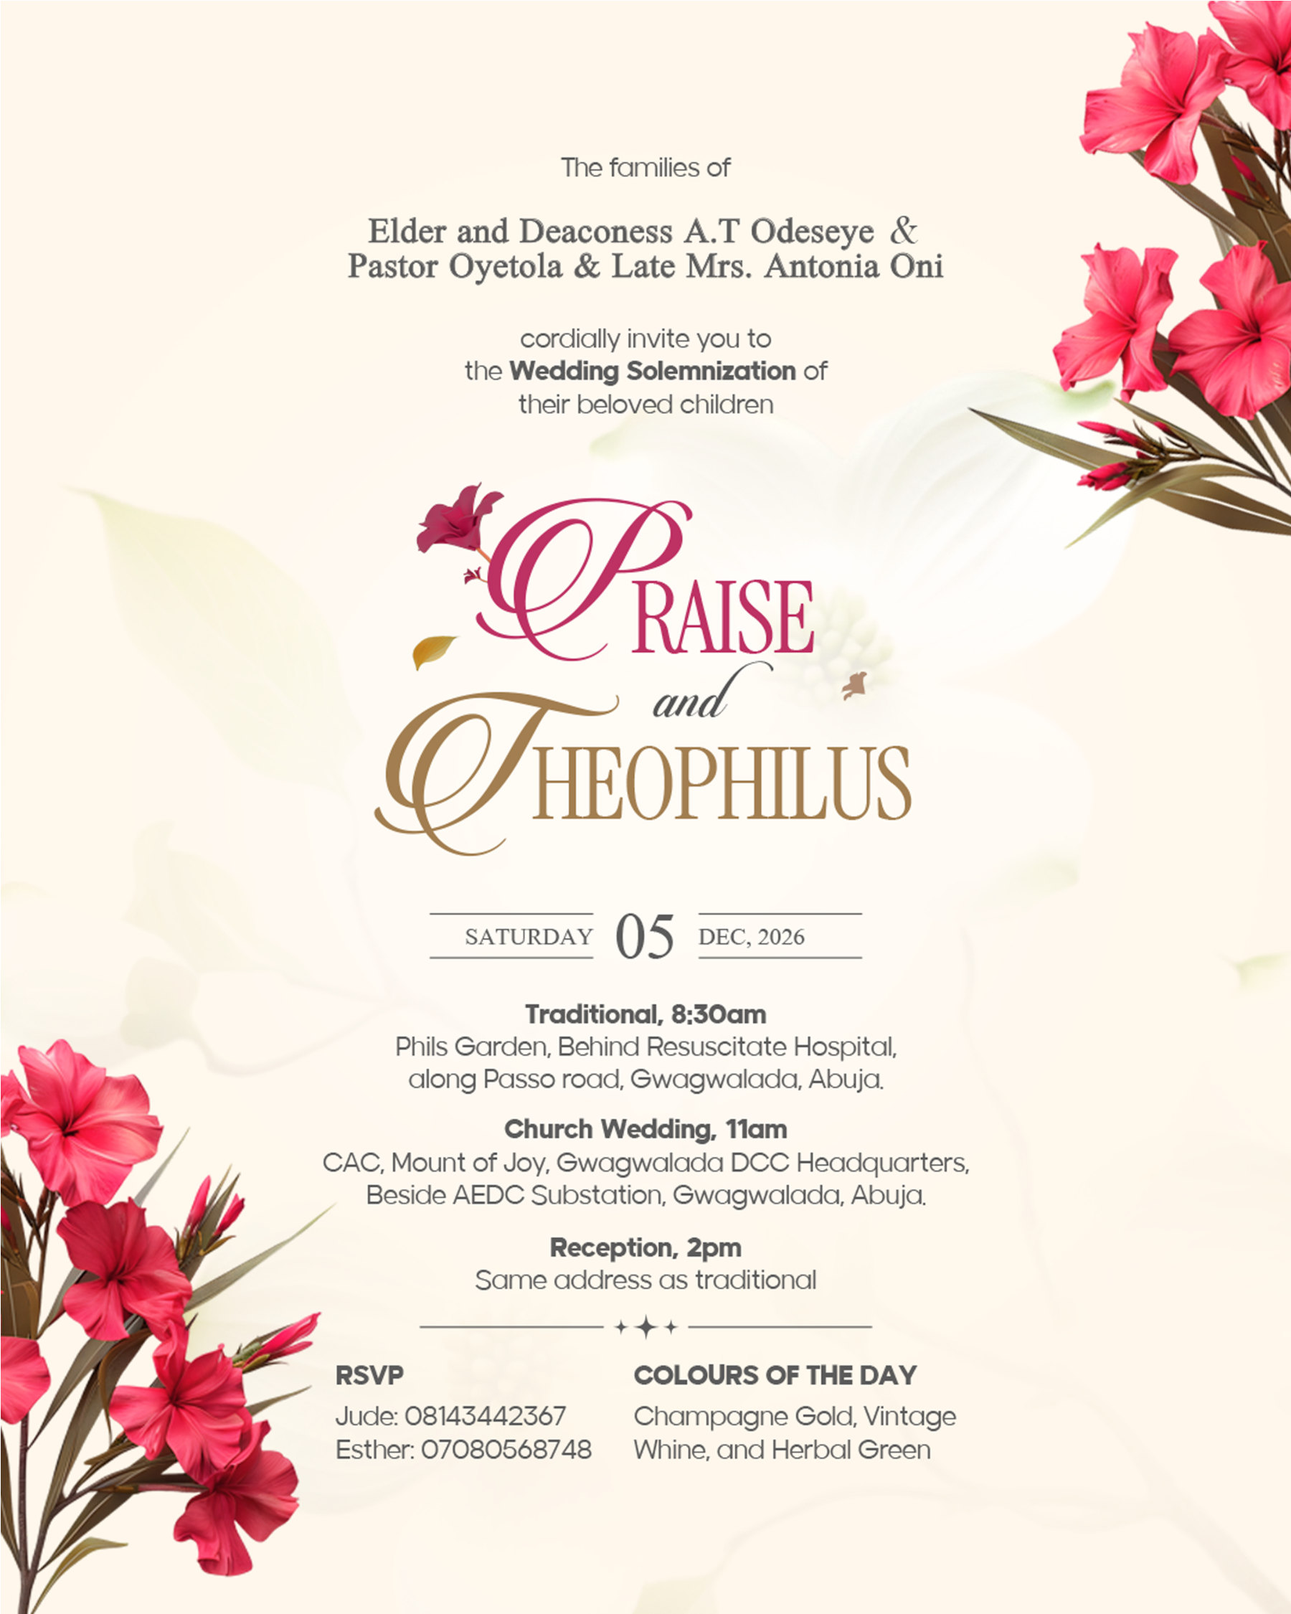
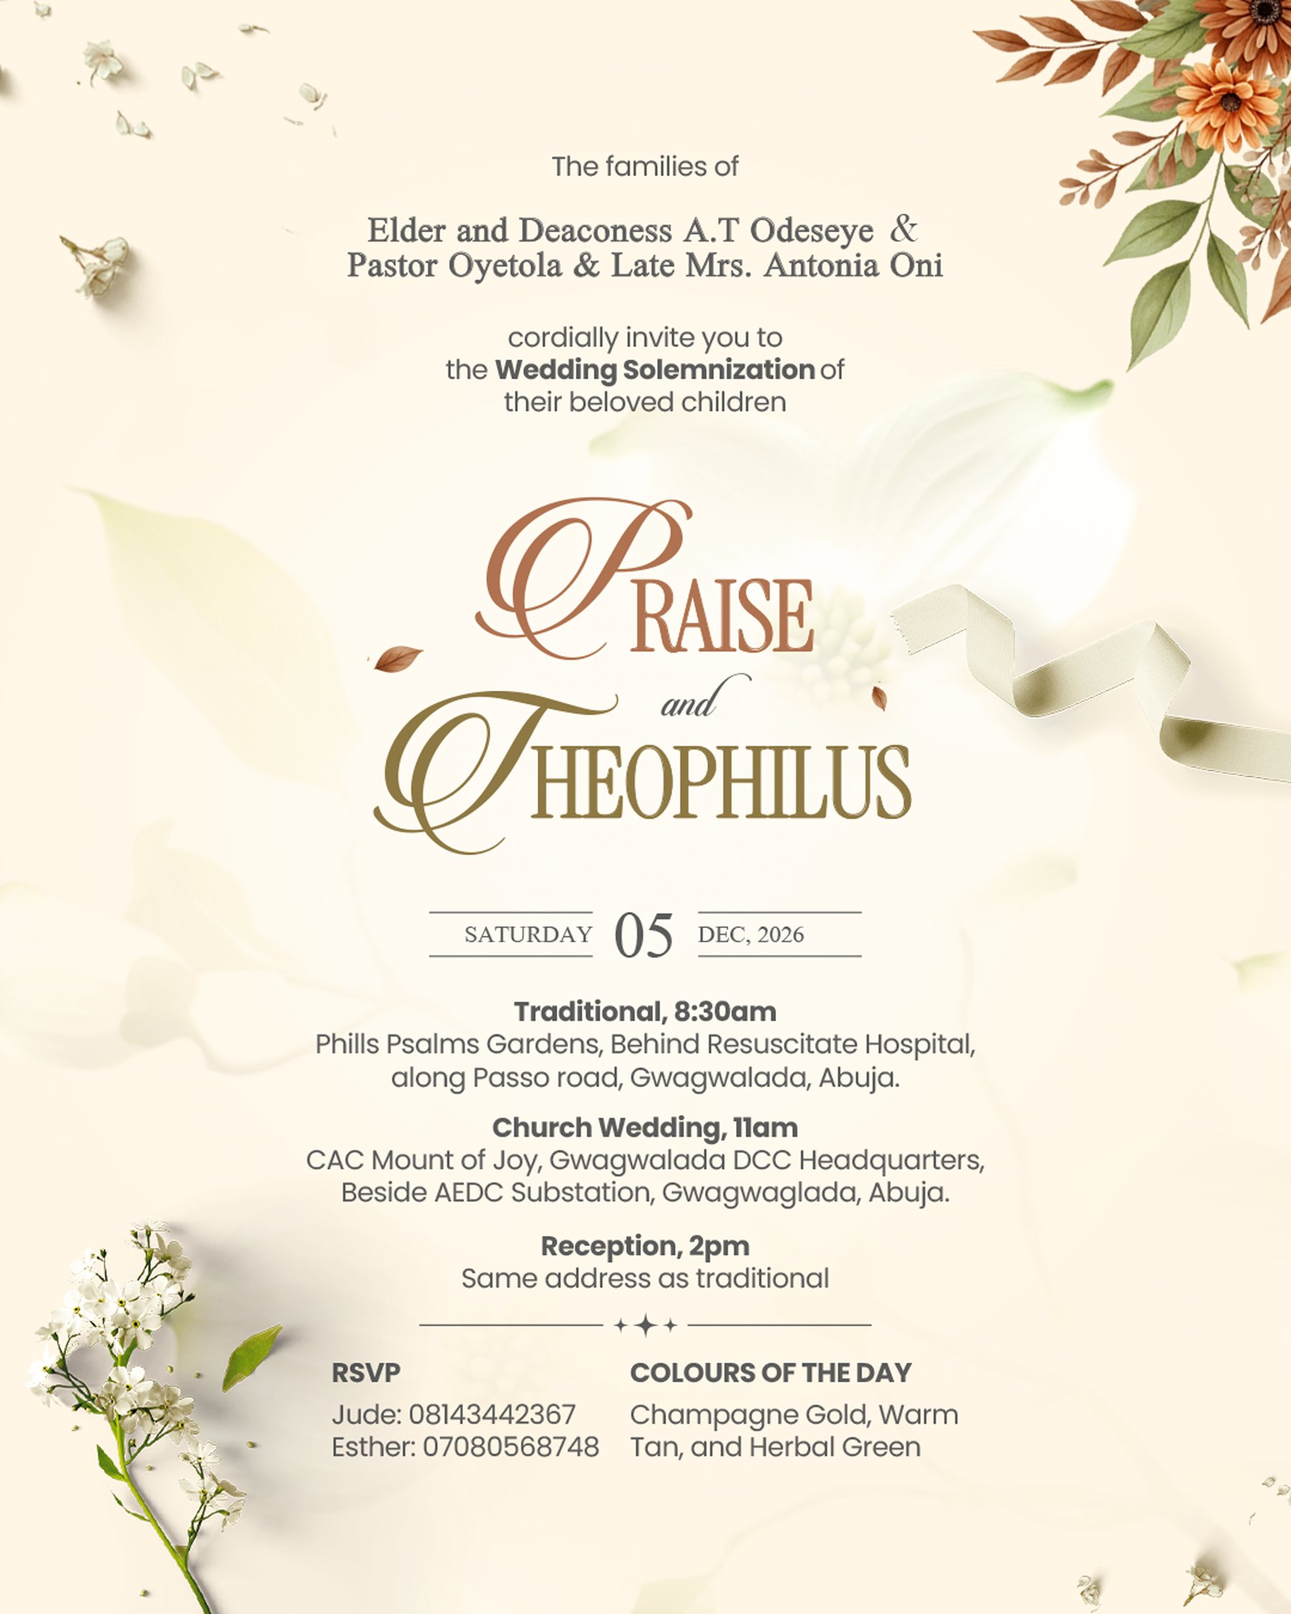
Restyle the site after the updated invitation
Colours, the attire photo and the card image now follow You Are Invited2.pdf:
warm tan, herbal green and champagne gold on the card's cream, with chocolate
brown kept as the dark ground. The card's autumn florals and a rust daisy,
cut out of it, replace the peony and two of the ivory florals. Both names in
the hero share the champagne colour.

diff --git a/src/components/Ornaments.tsx b/src/components/Ornaments.tsx
@@ -42,20 +42,31 @@ export function Divider({ className = "" }: { className?: string }) {
 /*
   The ivory florals from t-wedding, as drawn:
     corner-a     big bloom at the lower right, sprays rising left and up
-    corner-b     bloom at the lower middle, stems rising to the right
     corner-tall  bloom at the lower left, stems rising up and running right
     bouquet      a standing cluster of three blooms
-    spray-wide   a horizontal spray, bloom at the right
-*/
-const FLORALS = {
-  "corner-a": { w: 700, h: 766 },
-  "corner-b": { w: 600, h: 758 },
-  "corner-tall": { w: 600, h: 758 },
-  bouquet: { w: 480, h: 635 },
-  "spray-wide": { w: 458, h: 300 },
-} as const;
 
-export type FloralName = keyof typeof FLORALS;
+  The watercolour autumn florals from the updated card. Each was cut by the
+  card's edges, so it names the corner it must sit flush in (`cut`, before
+  any flip), and blooms and sways from that corner so the cut never shows:
+    autumn-corner  rust daisies, copper and sage leaves falling from the top right
+    autumn-spray   copper and sage leaves rising from the bottom right
+*/
+const FLORALS: Record<string, { file: string; w: number; h: number; cut?: [x: 0 | 1, y: 0 | 1] }> = {
+  "corner-a": { file: "floral-corner-a", w: 700, h: 766 },
+  "corner-tall": { file: "floral-corner-tall", w: 600, h: 758 },
+  bouquet: { file: "floral-bouquet", w: 480, h: 635 },
+  "autumn-corner": { file: "autumn-corner", w: 720, h: 838, cut: [1, 0] },
+  "autumn-spray": { file: "autumn-spray", w: 600, h: 750, cut: [1, 1] },
+};
+
+export type FloralName =
+  | "corner-a"
+  | "corner-tall"
+  | "bouquet"
+  | "autumn-corner"
+  | "autumn-spray";
+
+const pct = (v: number) => `${v * 100}%`;
 
 /**
  * One of the florals, placed by `className` (position and width). It blooms
@@ -64,7 +75,7 @@ export type FloralName = keyof typeof FLORALS;
  * image the sway.
  *
  * On the light paper the ivory needs a soft shadow to hold its edge; `onPaper`
- * adds it.
+ * adds it. The autumn florals carry their own colour and need none.
  */
 export function Floral({
   name,
@@ -79,34 +90,43 @@ export function Floral({
   flipY?: boolean;
   onPaper?: boolean;
 }) {
-  const { w, h } = FLORALS[name];
+  const { file, w, h, cut } = FLORALS[name];
   const mirror = `${flipX ? "scaleX(-1)" : ""} ${flipY ? "scaleY(-1)" : ""}`.trim();
+  // The image sways about its cut corner as drawn; the outer layer blooms about where that corner lands after the flip.
+  const swayOrigin = cut ? `${pct(cut[0])} ${pct(cut[1])}` : undefined;
+  const bloomOrigin = cut ? `${pct(flipX ? 1 - cut[0] : cut[0])} ${pct(flipY ? 1 - cut[1] : cut[1])}` : undefined;
   return (
-    <span data-inview aria-hidden className={`bloom pointer-events-none -z-10 block select-none ${className}`}>
+    <span
+      data-inview
+      aria-hidden
+      className={`bloom pointer-events-none -z-10 block select-none ${className}`}
+      style={bloomOrigin ? { transformOrigin: bloomOrigin } : undefined}
+    >
       <span className="block" style={mirror ? { transform: mirror } : undefined}>
         <Image
-          src={`/invitation/ornaments/floral-${name}.webp`}
+          src={`/invitation/ornaments/${file}.webp`}
           alt=""
           width={w}
           height={h}
           draggable={false}
           sizes="320px"
-          className={`sway block h-auto w-full ${onPaper ? "drop-shadow-[0_2px_5px_rgb(138_106_63/0.35)]" : ""}`}
+          style={swayOrigin ? { transformOrigin: swayOrigin } : undefined}
+          className={`sway block h-auto w-full ${onPaper && !cut ? "drop-shadow-[0_2px_5px_rgb(138_106_63/0.35)]" : ""}`}
         />
       </span>
     </span>
   );
 }
 
-/** The peony on its own, for small accents and the timeline's rider. */
-export function Peony({ className = "" }: { className?: string }) {
+/** A single rust daisy from the updated card, for small accents. */
+export function Daisy({ className = "" }: { className?: string }) {
   return (
     <Image
-      src="/invitation/ornaments/peony.webp"
+      src="/invitation/ornaments/daisy.webp"
       alt=""
       aria-hidden
-      width={200}
-      height={200}
+      width={185}
+      height={169}
       draggable={false}
       className={`pointer-events-none block h-auto select-none ${className}`}
     />

diff --git a/src/app/globals.css b/src/app/globals.css
@@ -1,37 +1,34 @@
 @import "tailwindcss";
 
 /*
-  The palette: chocolate brown as the dark ground, champagne gold as the
-  metal, herbal green as a quiet accent.
-  Paper is the warm cream the reference sets its light sections on.
-
-  The earthy set from the colour library plays support only: chocolate brown
-  for text, olive for small green accents, warm tan for fine borders and
-  beige for an alternate light section. None of them is a section ground.
+  The palette, after the updated card (You Are Invited2.pdf): its cream
+  paper, the olive gold of the couple's names, and the three
+  colours of the day, warm tan, herbal green and champagne gold.
+  Chocolate brown stays as the dark ground.
 */
 @theme {
-  --color-paper: #f7f1ea;
-  --color-cream: #efe5d8;
+  /* The card's paper. */
+  --color-paper: #fff6e6;
+  --color-cream: #fbead3;
   /*
-    The dark ground is now the library's chocolate brown. The names stay
-    "wine" so the classes across the components need no change; the guests'
-    Vintage Wine swatch in the dress code keeps its own hex.
+    The dark ground is chocolate brown. The names stay "wine" so the classes
+    across the components need no change.
   */
   --color-wine: #3e2318;
   --color-wine-deep: #2e1810;
   --color-wine-soft: #5e3a2a;
-  --color-rose: #e7b7bf;
-  --color-gold: #b38b59;
-  --color-gold-deep: #8a6a3f;
-  --color-gold-light: #d9bf94;
-  --color-herbal: #6e6e3a;
-  /* Olive from the colour library, for small green text on paper (about 7:1). */
-  --color-herbal-deep: #4d5309;
-  /* Herbal green lifted to read on the wine ground. */
-  --color-sage: #a9a873;
-  --color-champagne: #e2d2b6;
-  --color-tan: #b0866e;
-  --color-beige: #cebdb2;
+  /* The olive gold of the groom's name; deep for text on paper (about 5:1). */
+  --color-gold: #ad8b58;
+  --color-gold-deep: #7f6a3a;
+  --color-gold-light: #f0dcbc;
+  --color-herbal: #7d6e40;
+  /* Herbal green darkened for small green text on paper (about 7:1). */
+  --color-herbal-deep: #5a5028;
+  /* Herbal green lifted to read on the chocolate ground. */
+  --color-sage: #b7ab78;
+  --color-champagne: #ffe7d2;
+  --color-tan: #ae856c;
+  --color-beige: #e9d3c0;
   /* Chocolate brown for text, and a softer brown for secondary lines. */
   --color-ink: #3e2318;
   --color-ink-soft: #6b5045;
@@ -70,18 +67,18 @@ body {
 .wash {
   background-color: var(--color-paper);
   background-image:
-    radial-gradient(ellipse 60% 40% at 100% 10%, rgb(226 210 182 / 0.45), transparent 70%),
-    radial-gradient(ellipse 50% 35% at 0% 90%, rgb(226 210 182 / 0.35), transparent 70%);
+    radial-gradient(ellipse 60% 40% at 100% 10%, rgb(255 231 210 / 0.8), transparent 70%),
+    radial-gradient(ellipse 50% 35% at 0% 90%, rgb(174 133 108 / 0.12), transparent 70%);
 }
 
 /* Gold dust over the wine sections. */
 .dust {
   background-color: var(--color-wine);
   background-image:
-    radial-gradient(circle at 15% 20%, rgb(217 191 148 / 0.35) 0 1px, transparent 1.5px),
-    radial-gradient(circle at 80% 12%, rgb(217 191 148 / 0.3) 0 1px, transparent 1.5px),
-    radial-gradient(circle at 70% 70%, rgb(217 191 148 / 0.25) 0 1px, transparent 1.5px),
-    radial-gradient(circle at 30% 85%, rgb(217 191 148 / 0.3) 0 1px, transparent 1.5px),
+    radial-gradient(circle at 15% 20%, rgb(240 220 188 / 0.35) 0 1px, transparent 1.5px),
+    radial-gradient(circle at 80% 12%, rgb(240 220 188 / 0.3) 0 1px, transparent 1.5px),
+    radial-gradient(circle at 70% 70%, rgb(240 220 188 / 0.25) 0 1px, transparent 1.5px),
+    radial-gradient(circle at 30% 85%, rgb(240 220 188 / 0.3) 0 1px, transparent 1.5px),
     radial-gradient(ellipse 80% 60% at 50% 0%, rgb(94 58 42 / 0.6), transparent 70%);
   background-size: 180px 180px, 220px 220px, 160px 160px, 200px 200px, 100% 100%;
 }

diff --git a/src/components/Timeline.tsx b/src/components/Timeline.tsx
@@ -2,7 +2,7 @@
 
 import { useEffect, useRef, useState } from "react";
 import type { ScheduleItem } from "@/lib/wedding";
-import { Peony } from "./Ornaments";
+import { Daisy } from "./Ornaments";
 import { ScheduleIcon } from "./ScheduleIcons";
 
 /**
@@ -77,7 +77,7 @@ export function Timeline({
       <span aria-hidden className="absolute top-0 left-1/2 h-2 w-2 -translate-x-1/2 rotate-45 border border-gold bg-champagne" />
       <span aria-hidden className="absolute bottom-0 left-1/2 h-2 w-2 -translate-x-1/2 rotate-45 border border-gold bg-champagne" />
 
-      {/* The peony, stepping from stop to stop with a quarter turn each time. */}
+      {/* The daisy, stepping from stop to stop with a turn each time. */}
       <span
         aria-hidden
         className="absolute left-1/2 z-20 -translate-x-1/2 -translate-y-1/2 transition-[top,opacity] duration-[1100ms] ease-[cubic-bezier(0.65,0,0.35,1)]"
@@ -87,7 +87,7 @@ export function Timeline({
           className="block transition-transform duration-[1100ms] ease-[cubic-bezier(0.65,0,0.35,1)]"
           style={{ transform: `rotate(${Math.max(0, step) * 72}deg)` }}
         >
-          <Peony className="w-11 drop-shadow-[0_4px_10px_rgb(75_21_38/0.3)]" />
+          <Daisy className="w-11 drop-shadow-[0_4px_10px_rgb(62_35_24/0.3)]" />
         </span>
       </span>
 
@@ -97,7 +97,7 @@ export function Timeline({
         const icon = (
           <span
             className={`flex h-16 w-16 items-center justify-center rounded-full border bg-paper/70 transition-all duration-700 ${
-              lit ? "border-herbal/50 text-gold-deep shadow-[0_0_0_5px_rgb(226_210_182/0.6)]" : "border-gold/30 text-gold"
+              lit ? "border-herbal/50 text-gold-deep shadow-[0_0_0_5px_rgb(255_231_210/0.8)]" : "border-gold/30 text-gold"
             }`}
           >
             <ScheduleIcon name={item.icon} className="h-11 w-11" />

diff --git a/src/components/Hero.tsx b/src/components/Hero.tsx
@@ -21,7 +21,8 @@ export function Hero() {
 
   return (
     <section id="top" className="dust relative overflow-hidden px-6 pt-28 pb-20 text-center text-gold-light">
-      <Floral name="corner-tall" flipY className="absolute -top-10 -left-16 w-60" />
+      {/* The updated card's autumn spray, flush in the top-right corner as on the card. */}
+      <Floral name="autumn-corner" className="absolute -top-2 -right-2 w-56" />
       <Floral name="corner-a" className="absolute -right-10 -bottom-12 w-72" />
 
       <div className="hero-in relative">
@@ -30,9 +31,9 @@ export function Hero() {
         <p className="eyebrow mt-8 text-gold-light/80">We are getting married</p>
 
         <h1 className="mt-6">
-          <CardName name={bride.name} base="var(--color-rose)" />
+          <CardName name={bride.name} base="var(--color-champagne)" />
           <span className="block font-script text-[2.2rem] leading-none text-champagne">and</span>
-          <CardName name={groom.name} base="var(--color-gold-light)" />
+          <CardName name={groom.name} base="var(--color-champagne)" />
         </h1>
 
         {/* Wrapped so the beat and the entrance animate different elements. */}

diff --git a/src/components/Story.tsx b/src/components/Story.tsx
@@ -1,6 +1,6 @@
 import Image from "next/image";
 import { wedding } from "@/lib/wedding";
-import { Heart, Peony } from "./Ornaments";
+import { Daisy, Heart } from "./Ornaments";
 import { Reveal } from "./Reveal";
 
 // The heart, in a 300x270 box. Used for both the clip and the gold outline.
@@ -44,12 +44,12 @@ export function Story() {
             >
               <path pathLength={1} d={HEART} />
             </svg>
-            {/* Two peonies tucked against the heart, as a corsage. */}
+            {/* Two daisies tucked against the heart, as a corsage. */}
             <span data-inview className="bloom absolute -bottom-2 left-[8%] w-16">
-              <Peony className="w-full drop-shadow-[0_3px_8px_rgb(138_106_63/0.4)]" />
+              <Daisy className="w-full drop-shadow-[0_3px_8px_rgb(127_106_58/0.35)]" />
             </span>
             <span data-inview className="bloom absolute bottom-[14%] left-[1%] w-9">
-              <Peony className="w-full rotate-45 drop-shadow-[0_2px_6px_rgb(138_106_63/0.4)]" />
+              <Daisy className="w-full rotate-45 drop-shadow-[0_2px_6px_rgb(127_106_58/0.35)]" />
             </span>
           </div>
         )}

diff --git a/src/lib/wedding.ts b/src/lib/wedding.ts
@@ -95,13 +95,13 @@ export const wedding = {
     heading: "Colours of the Day",
     intro: "We would love to see you dressed in the colours of our day.",
     colours: [
-      { name: "Vintage Wine", hex: "#4B1526" },
-      { name: "Herbal Green", hex: "#6E6E3A" },
-      { name: "Champagne Gold", hex: "#E2D2B6" },
+      { name: "Warm Tan", hex: "#AE856C" },
+      { name: "Herbal Green", hex: "#7D6E40" },
+      { name: "Champagne Gold", hex: "#FFE7D2" },
     ],
     image: "/invitation/images/attire-full.jpg",
     imageAlt:
-      "Three guests in Yoruba attire: a man in a vintage wine agbada with a champagne fila, a woman in herbal green lace with a champagne gele and sash, and a woman in vintage wine lace with a champagne gele.",
+      "Three guests in Yoruba attire: a man in a warm tan agbada with a champagne fila, a woman in herbal green lace with a champagne gele and sash, and a woman in champagne gold lace with a warm tan gele.",
   },
 
   /**

diff --git a/src/components/Closing.tsx b/src/components/Closing.tsx
@@ -35,8 +35,8 @@ export function Closing() {
         <h2 className="heading text-[1.35rem] text-gold-deep">{closing.heading}</h2>
         <p className="mx-auto mt-3 max-w-[26ch] font-serif text-[1.08rem] text-ink">{closing.body}</p>
         <Heart className="beat mx-auto mt-5 block text-gold" />
-        <Floral name="corner-tall" onPaper className="absolute -bottom-6 -left-10 w-52" />
-        <Floral name="bouquet" onPaper className="absolute -right-6 -bottom-10 w-40" />
+        <Floral name="autumn-corner" flipX flipY className="absolute -bottom-2 -left-2 w-44" />
+        <Floral name="autumn-spray" className="absolute -right-2 -bottom-2 w-40" />
       </section>
 
       <footer className="dust px-8 py-14 text-center text-gold-light">

diff --git a/src/components/Invitation.tsx b/src/components/Invitation.tsx
@@ -8,7 +8,7 @@ export function Invitation() {
   return (
     <section id="invitation" className="wash relative overflow-hidden px-8 py-20 text-center">
       {/* Top-left, opposite the hero's bottom-right corner, so the two never stack. */}
-      <Floral name="spray-wide" onPaper flipX flipY className="absolute -top-6 -left-16 w-56" />
+      <Floral name="autumn-spray" flipX flipY className="absolute -top-2 -left-2 w-40" />
       <Reveal>
         <p className="font-serif text-[1.05rem] italic text-ink-soft">{families.lead}</p>
         <ul className="mt-4 space-y-2">

diff --git a/src/components/SaveTheDate.tsx b/src/components/SaveTheDate.tsx
@@ -30,7 +30,7 @@ export function SaveTheDate() {
 
   return (
     <section id="date" className="wash relative overflow-hidden border-t border-gold/15 px-8 pt-16 pb-20 text-center">
-      <Floral name="corner-b" onPaper flipY className="absolute -top-8 -right-16 w-44" />
+      <Floral name="autumn-corner" className="absolute -top-2 -right-2 w-36" />
       <Reveal>
         <p className="font-script text-[5rem] leading-none text-gold-deep">Save</p>
         <p className="heading -mt-1 text-[0.95rem] text-gold-deep">our date</p>

diff --git a/src/components/DressCode.tsx b/src/components/DressCode.tsx
@@ -22,7 +22,7 @@ export function DressCode() {
           ))}
         </ul>
 
-        <div className="settle relative mx-auto mt-10 aspect-[1686/1799] w-full overflow-hidden rounded-[28px] shadow-md">
+        <div className="settle relative mx-auto mt-10 aspect-[1000/1135] w-full overflow-hidden rounded-[28px] shadow-md">
           <Image src={dressCode.image} alt={dressCode.imageAlt} fill sizes="(max-width: 480px) 90vw, 430px" className="object-cover" />
         </div>
       </Reveal>

diff --git a/README.md b/README.md
@@ -2,7 +2,7 @@
 
 The wedding website for Praise and Theophilus, Saturday 5 December 2026, Gwagwalada, Abuja.
 
-A single-page invitation in the couple's colours of the day: vintage wine, champagne gold and herbal green. It is laid out as one phone-width column, and on a desktop it sits centred on a wine background like a card on a table.
+A single-page invitation in the couple's colours of the day: warm tan, herbal green and champagne gold, on the cream of the printed card with chocolate brown as the dark ground. It is laid out as one phone-width column, and on a desktop it sits centred on a chocolate background like a card on a table.
 
 ## Running it
 
@@ -32,11 +32,11 @@ Some blocks are optional and hidden when emptied:
 
 Images live in `public/invitation/images/`:
 
-- `invitation-card.jpg` is the printed card, opened by "View the invitation card" and used as the link preview image.
-- `attire.jpg` is the colours-of-the-day photograph, cropped from page 2 of the card.
+- `invitation-card.jpg` is the printed card, opened by "View the invitation card".
+- `invitation-card.jpg` and `attire-full.jpg` come from the updated card, `You Are Invited2.pdf`: page 1, and the colours-of-the-day photograph cropped from page 2.
 - `story-heart.jpg` is cropped so both faces sit inside the heart. `gallery-*.jpg` are the gallery photos.
 
-The ivory florals in `public/invitation/ornaments/` are the t-wedding artwork, saved as WebP.
+The florals in `public/invitation/ornaments/` are WebP: the ivory `floral-*` set is the t-wedding artwork, and `autumn-corner`, `autumn-spray` and `daisy` are watercolours cut out of the updated card.
 
 ## Sections
 
@@ -51,15 +51,32 @@ In page order ([`src/app/page.tsx`](src/app/page.tsx)):
 7. **Countdown** to 8:30 AM WAT.
 8. **Colours of the day**: swatches and the attire photograph.
 9. **Gifts**.
-10. **RSVP**: there is no backend. The form composes a WhatsApp message to Jude or Esther, and both numbers are also listed to call.
+10. **RSVP**: saved to Supabase (see below). If saving fails, the guest is offered the same reply as a WhatsApp message to Jude or Esther. Both numbers are also listed to call.
 11. **Wishes**, then the closing and footer.
+
+## RSVP storage (Supabase)
+
+The form posts to [`src/app/api/rsvp/route.ts`](src/app/api/rsvp/route.ts), which inserts a row into the `rsvps` table. Each row holds the name, phone, whether they are attending, number of guests (up to 4), the names of those coming with them, whose guest they are and an optional message.
+
+1. Create a Supabase project and run [`supabase/rsvps.sql`](supabase/rsvps.sql) in its SQL editor.
+2. Set two environment variables, in `.env.local` for local runs and in the Vercel project settings for the live site:
+
+   ```
+   SUPABASE_URL=https://<project-ref>.supabase.co
+   SUPABASE_PUBLISHABLE_KEY=<publishable key, from Project Settings > API Keys>
+   ```
+
+   The table's policy lets this key add rows and nothing else, so it cannot be used to read guests' details.
+3. Read the replies in the Supabase Table Editor, which can also export them to CSV.
+
+Until those variables are set, the route answers 503 and guests are offered WhatsApp instead.
 
 ## How it is built
 
 - Next.js 16 (App Router, Cache Components) with React 19 and TypeScript.
 - Tailwind CSS v4. The palette and fonts are theme tokens in [`src/app/globals.css`](src/app/globals.css).
 - Fonts: Cormorant Garamond for text and headings, Pinyon Script for the names.
-- Florals: the t-wedding ivory artwork, placed with `Floral` in [`src/components/Ornaments.tsx`](src/components/Ornaments.tsx).
+- Florals: the t-wedding ivory artwork and the updated card's autumn watercolours, placed with `Floral` in [`src/components/Ornaments.tsx`](src/components/Ornaments.tsx).
 - Icons: hand-drawn SVG line art for the schedule in [`src/components/ScheduleIcons.tsx`](src/components/ScheduleIcons.tsx), plus a few from `lucide-react`.
 - Vercel Analytics in the root layout.
 
@@ -76,7 +93,7 @@ The animations are plain CSS. One observer ([`src/components/Animator.tsx`](src/
 - The opening curtain and the hero entrance play on load. `--intro` sets their timing.
 - Florals bloom in and then sway. Schedule icons and the heart outline draw themselves stroke by stroke.
 - Section content rises in one element at a time.
-- The order of the day moves in steps ([`src/components/Timeline.tsx`](src/components/Timeline.tsx)): a peony waits on the first event and glides to each next one as it reaches the middle of the screen.
+- The order of the day moves in steps ([`src/components/Timeline.tsx`](src/components/Timeline.tsx)): a daisy waits on the first event and glides to each next one as it reaches the middle of the screen.
 
 Hidden starting states only apply under the `js` class, which an inline script sets before first paint, so nothing stays hidden without JavaScript. Everything is switched off for visitors who ask for reduced motion.
 
